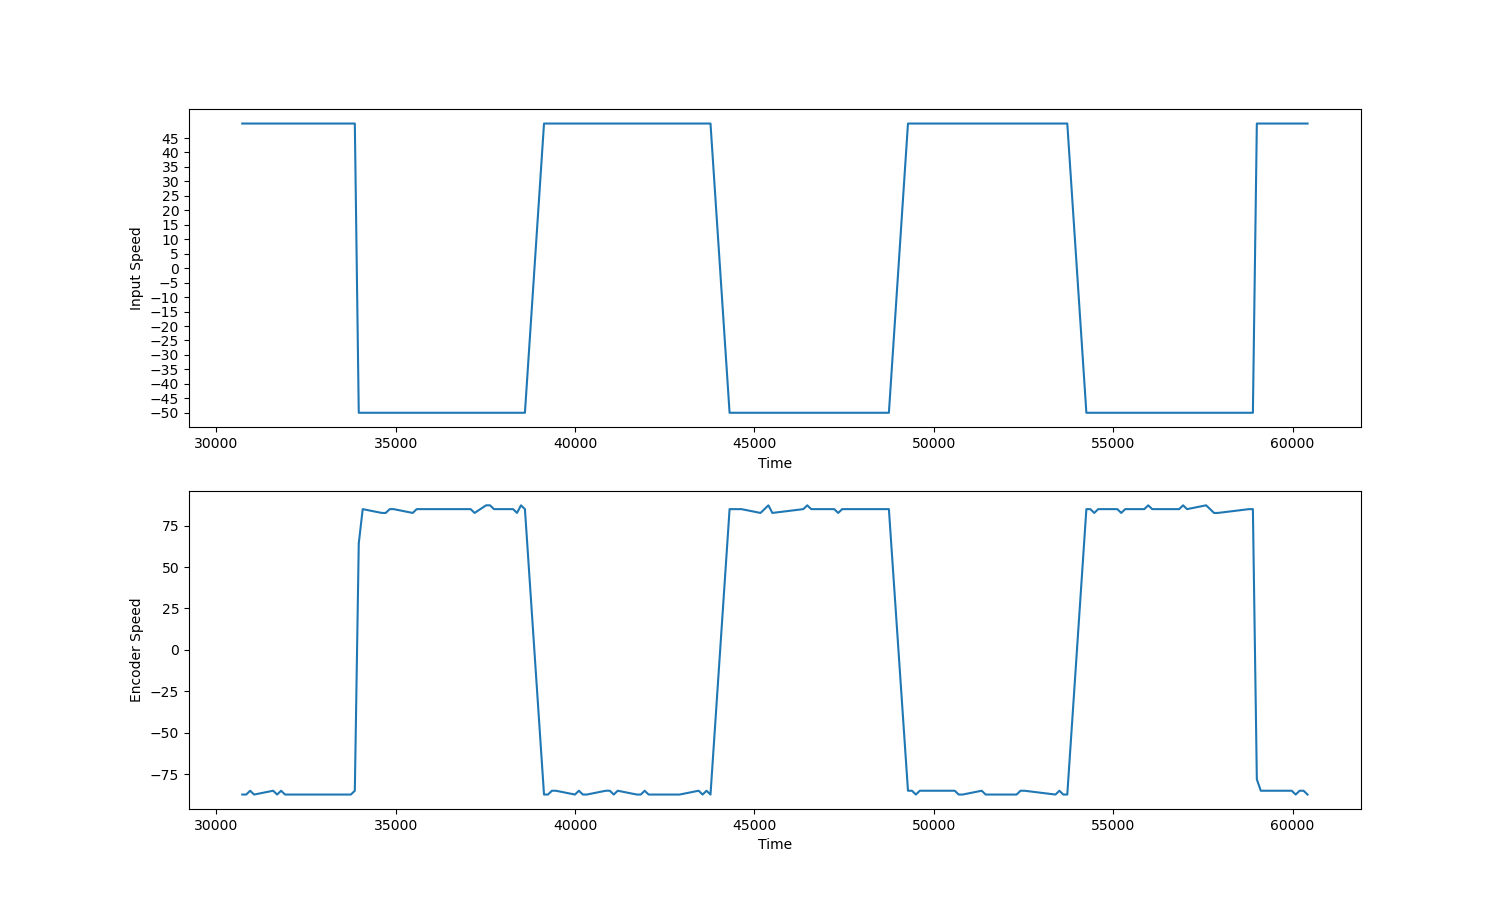
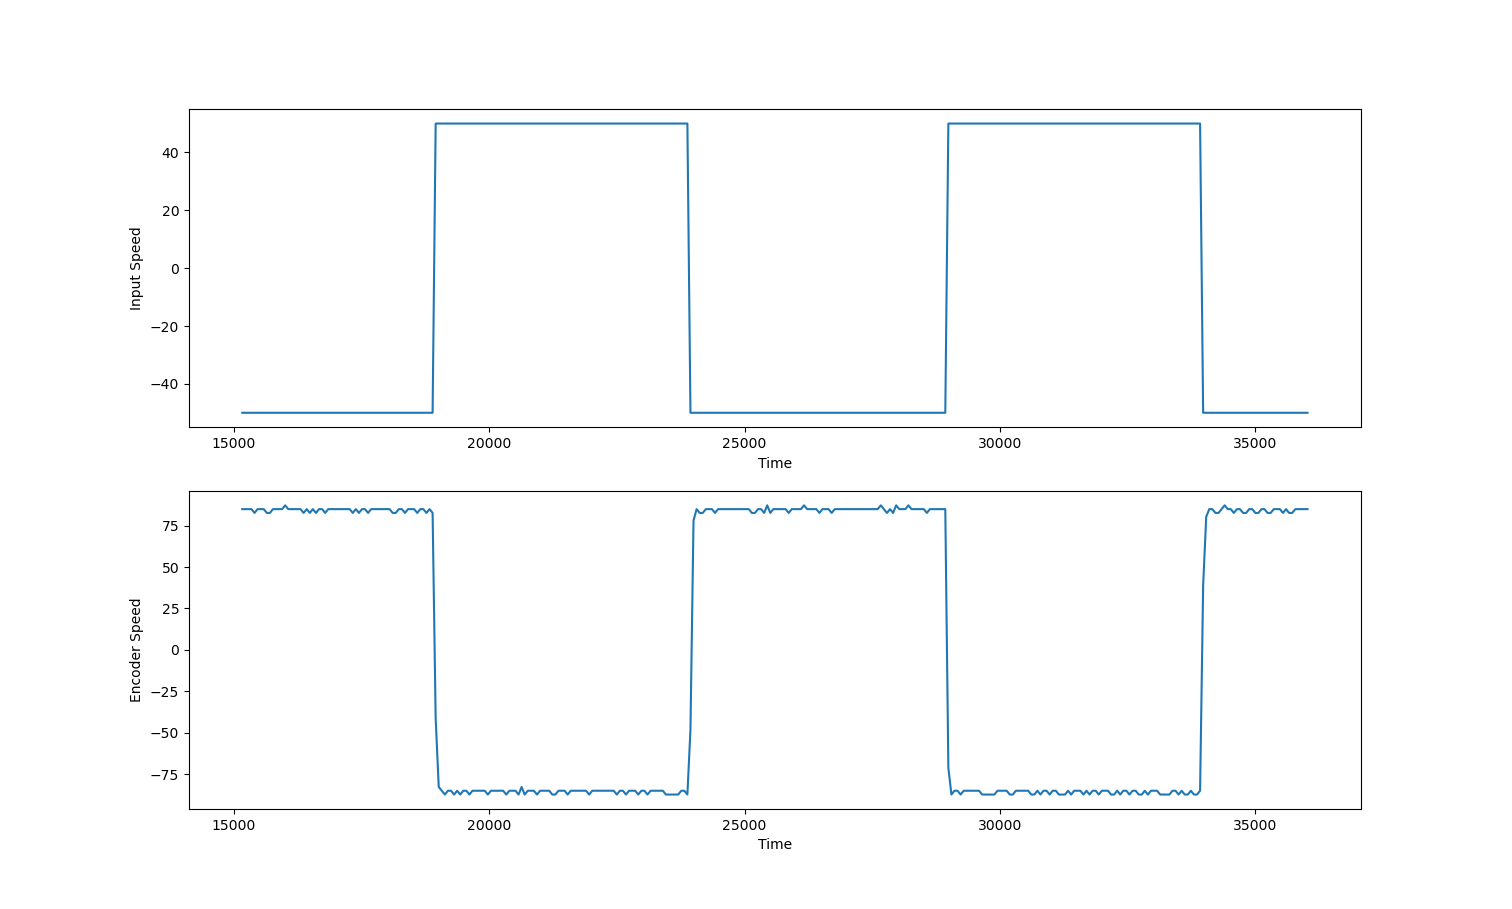
motor calibration square

diff --git a/Python/motor calibration square/plot_from_serial.py b/Python/motor calibration square/plot_from_serial.py
@@ -13,8 +13,8 @@ from matplotlib import pyplot as plt
 import pandas as pd
 import numpy as np
 
-REAR_PATH = './Python/motor calibration square/SourceData/RearMotorCalibrationSquare50.csv'
-FRONT_PATH = './Python/motor calibration square/SourceData/FrontMotorCalibrationSquare150.csv'
+REAR_PATH = './Python/motor calibration square/SourceData/RearMotorCalibrationSquare150.csv'
+FRONT_PATH = './Python/motor calibration square/SourceData/FrontMotorCalibrationSquare50.csv'
 
 COM = '/dev/cu.usbmodem160464801'
 BAUD = 115200
@@ -152,5 +152,5 @@ def read_from_serial_front():
 if __name__ == '__main__':
     # read_from_serial_rear()
     # read_from_serial_front()
-    plot_from_csv_rear()
-    # plot_from_csv_front()
+    # plot_from_csv_rear()
+    plot_from_csv_front()
